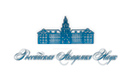
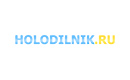
v1

Changed region(s): [[0.0923, 0.2, 0.8923, 0.575], [0.0923, 0.6, 0.9231, 0.825]]

diff --git a/index.html b/index.html
@@ -231,16 +231,16 @@
                         <img class="img-responsive" src="images/partner_03.jpg" alt="">
                     </li>
                     <li>
-                        <img class="img-responsive" src="images/partner_04.jpg" alt="">
+                        <img class="img-responsive" src="images/partner_08.jpg" alt="">
                     </li>
                     <li>
-                        <img class="img-responsive" src="images/partner_01.jpg" alt="">
+                        <img class="img-responsive" src="images/partner_05.jpg" alt="">
                     </li>
                     <li>
-                        <img class="img-responsive" src="images/partner_02.jpg" alt="">
+                        <img class="img-responsive" src="images/partner_06.jpg" alt="">
                     </li>
                     <li>
-                        <img class="img-responsive" src="images/partner_03.jpg" alt="">
+                        <img class="img-responsive" src="images/partner_07.jpg" alt="">
                     </li>
                 </ul>
                 <h2>Что о нас <span class="text-yellow">говорят</span></h2>
